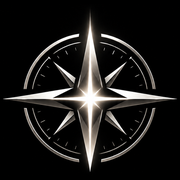
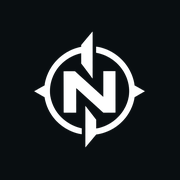
New N mark and wordmark in site fonts

Changed region(s): [[0.0, 0.0556, 1.0, 0.9444]]

diff --git a/index.html b/index.html
@@ -14,7 +14,7 @@
 <meta name="twitter:card" content="summary_large_image">
 <link rel="preconnect" href="https://fonts.googleapis.com">
 <link rel="preconnect" href="https://fonts.gstatic.com" crossorigin>
-<link rel="stylesheet" href="https://fonts.googleapis.com/css2?family=Geist:wght@300;400;500;600&family=Geist+Mono:wght@400;500&family=Bricolage+Grotesque:opsz,wdth,wght@12..96,75..100,500..800&family=Michroma&display=swap">
+<link rel="stylesheet" href="https://fonts.googleapis.com/css2?family=Geist:wght@300;400;500;600&family=Geist+Mono:wght@400;500&family=Bricolage+Grotesque:opsz,wdth,wght@12..96,75..100,500..800&display=swap">
 <style>
 :root{
   color-scheme: dark;
@@ -57,8 +57,8 @@ button{font:inherit;color:inherit}
 .brand:hover{opacity:.85}
 .brand:active{transform:scale(.96)}
 .brand img{width:34px;height:34px;display:block;flex:none;filter:drop-shadow(0 0 10px rgba(255,255,255,.12))}
-.wordmark{font-family:"Michroma","Geist",system-ui,sans-serif;font-weight:400;font-size:.74rem;line-height:1.1;letter-spacing:.2em;text-transform:uppercase;white-space:nowrap;text-align:left}
-.wordmark small{display:block;font-size:.62em;letter-spacing:.52em;color:var(--muted);margin-top:4px}
+.wordmark{font-family:var(--serif);font-weight:800;font-size:1.18rem;line-height:1;letter-spacing:-.035em;white-space:nowrap;text-align:left;font-variation-settings:"wdth" 92}
+.wordmark small{display:block;font-family:var(--mono);font-weight:500;font-size:.56rem;letter-spacing:.36em;text-transform:uppercase;color:var(--gold);margin-top:4px}
 .brand-mark{display:flex;gap:3px}
 .brand-mark i{width:7px;height:7px;border-radius:50%;background:var(--gold);display:block}
 .brand-mark i:nth-child(2){background:var(--ice)}
@@ -223,7 +223,7 @@ main{position:relative;z-index:1;padding-top:calc(60px + env(safe-area-inset-top
   .sample{max-width:480px}
 }
 @media (max-width:560px){
-  .wordmark{font-size:.62rem;letter-spacing:.16em}
+  .wordmark{font-size:1.06rem}
   .opts.two{grid-template-columns:1fr}
   .screen{padding-inline:16px;padding-block:28px 60px}
   .bar-inner{padding-inline:12px}

diff --git a/peptides/styles.css b/peptides/styles.css
@@ -27,8 +27,8 @@ a:hover{color:var(--text)}
 .nav .wrap{height:60px;display:flex;align-items:center;justify-content:space-between;gap:12px}
 .brand{display:flex;align-items:center;gap:10px;font-family:var(--serif);font-weight:800;font-size:1.25rem;letter-spacing:-.035em;color:var(--text);text-decoration:none}
 .brand img{width:34px;height:34px;display:block;flex:none;filter:drop-shadow(0 0 10px rgba(255,255,255,.12))}
-.wordmark{font-family:"Michroma","Geist",system-ui,sans-serif;font-weight:400;font-size:.74rem;line-height:1.1;letter-spacing:.2em;text-transform:uppercase;white-space:nowrap;text-align:left}
-.wordmark small{display:block;font-size:.62em;letter-spacing:.52em;color:var(--muted);margin-top:4px}
+.wordmark{font-family:var(--serif);font-weight:800;font-size:1.18rem;line-height:1;letter-spacing:-.035em;white-space:nowrap;text-align:left;font-variation-settings:"wdth" 92}
+.wordmark small{display:block;font-family:var(--mono);font-weight:500;font-size:.56rem;letter-spacing:.36em;text-transform:uppercase;color:var(--gold);margin-top:4px}
 .brand-mark{display:flex;gap:3px}
 .brand-mark i{width:7px;height:7px;border-radius:50%;background:var(--gold);display:block}
 .brand-mark i:nth-child(2){background:var(--ice)}
@@ -43,7 +43,7 @@ a:hover{color:var(--text)}
 .btn.lg{padding:15px 24px;font-size:1rem}
 .nav-links a{white-space:nowrap}
 .sm{display:none}
-@media (max-width:560px){.nav-links{gap:6px 14px}.wordmark{font-size:.58rem;letter-spacing:.14em}.brand{gap:8px}.brand img{width:28px;height:28px}.nav-links .hide-sm{display:none}.lg-only{display:none}.sm{display:inline}.nav .btn{padding:9px 14px}}
+@media (max-width:560px){.nav-links{gap:6px 14px}.wordmark{font-size:1.02rem}.brand{gap:8px}.brand img{width:28px;height:28px}.nav-links .hide-sm{display:none}.lg-only{display:none}.sm{display:inline}.nav .btn{padding:9px 14px}}
 
 /* Type */
 .eyebrow{font-family:var(--mono);font-size:.74rem;letter-spacing:.14em;text-transform:uppercase;color:var(--ice);margin:0 0 16px}

diff --git a/peptides/index.html b/peptides/index.html
@@ -16,7 +16,7 @@
 <meta name="twitter:title" content="Peptides Simplified: What Peptides Are and What the Research Shows">
 <meta name="twitter:description" content="Your compass for peptide research. What is a peptide, why is everyone talking about them, and what does the research actually show? Plain-English guides to BPC-157, semaglutide, tirzepatide, GHK-Cu and more.">
 <link rel="preconnect" href="https://fonts.googleapis.com"><link rel="preconnect" href="https://fonts.gstatic.com" crossorigin>
-<link rel="stylesheet" href="https://fonts.googleapis.com/css2?family=Geist:wght@300;400;500;600&family=Geist+Mono:wght@400;500&family=Bricolage+Grotesque:opsz,wdth,wght@12..96,75..100,500..800&family=Michroma&display=swap">
+<link rel="stylesheet" href="https://fonts.googleapis.com/css2?family=Geist:wght@300;400;500;600&family=Geist+Mono:wght@400;500&family=Bricolage+Grotesque:opsz,wdth,wght@12..96,75..100,500..800&display=swap">
 <link rel="icon" type="image/png" sizes="32x32" href="/assets/favicon-32.png">
 <link rel="apple-touch-icon" href="/assets/apple-touch-icon.png">
 <meta property="og:image" content="/assets/og-image.jpg">

diff --git a/calculator/index.html b/calculator/index.html
@@ -16,7 +16,7 @@
 <meta name="twitter:title" content="Peptide Mixing Calculator: How Much Water and How Many Units to Draw">
 <meta name="twitter:description" content="Your compass for peptide research: a free peptide reconstitution calculator. Enter your vial size and prescribed dose to see exactly how many units to draw, and the easiest amount of water to add.">
 <link rel="preconnect" href="https://fonts.googleapis.com"><link rel="preconnect" href="https://fonts.gstatic.com" crossorigin>
-<link rel="stylesheet" href="https://fonts.googleapis.com/css2?family=Geist:wght@300;400;500;600&family=Geist+Mono:wght@400;500&family=Bricolage+Grotesque:opsz,wdth,wght@12..96,75..100,500..800&family=Michroma&display=swap">
+<link rel="stylesheet" href="https://fonts.googleapis.com/css2?family=Geist:wght@300;400;500;600&family=Geist+Mono:wght@400;500&family=Bricolage+Grotesque:opsz,wdth,wght@12..96,75..100,500..800&display=swap">
 <link rel="icon" type="image/png" sizes="32x32" href="/assets/favicon-32.png">
 <link rel="apple-touch-icon" href="/assets/apple-touch-icon.png">
 <meta property="og:image" content="/assets/og-image.jpg">

diff --git a/peptides/tirzepatide/index.html b/peptides/tirzepatide/index.html
@@ -16,7 +16,7 @@
 <meta name="twitter:title" content="Tirzepatide: What It Is and What Studies Show, in Plain English">
 <meta name="twitter:description" content="Tirzepatide explained simply. A weight-loss medicine that copies two fullness hormones at once, GLP-1 and GIP. People sometimes call it a &quot;GLP-2&quot;, but that…">
 <link rel="preconnect" href="https://fonts.googleapis.com"><link rel="preconnect" href="https://fonts.gstatic.com" crossorigin>
-<link rel="stylesheet" href="https://fonts.googleapis.com/css2?family=Geist:wght@300;400;500;600&family=Geist+Mono:wght@400;500&family=Bricolage+Grotesque:opsz,wdth,wght@12..96,75..100,500..800&family=Michroma&display=swap">
+<link rel="stylesheet" href="https://fonts.googleapis.com/css2?family=Geist:wght@300;400;500;600&family=Geist+Mono:wght@400;500&family=Bricolage+Grotesque:opsz,wdth,wght@12..96,75..100,500..800&display=swap">
 <link rel="icon" type="image/png" sizes="32x32" href="/assets/favicon-32.png">
 <link rel="apple-touch-icon" href="/assets/apple-touch-icon.png">
 <meta property="og:image" content="/assets/og-image.jpg">

diff --git a/peptides/tesamorelin/index.html b/peptides/tesamorelin/index.html
@@ -16,7 +16,7 @@
 <meta name="twitter:title" content="Tesamorelin: What It Is and What Studies Show, in Plain English">
 <meta name="twitter:description" content="Tesamorelin explained simply. A prescription peptide that tells your body to make more of its own growth hormone. It is approved to shrink deep belly fat in…">
 <link rel="preconnect" href="https://fonts.googleapis.com"><link rel="preconnect" href="https://fonts.gstatic.com" crossorigin>
-<link rel="stylesheet" href="https://fonts.googleapis.com/css2?family=Geist:wght@300;400;500;600&family=Geist+Mono:wght@400;500&family=Bricolage+Grotesque:opsz,wdth,wght@12..96,75..100,500..800&family=Michroma&display=swap">
+<link rel="stylesheet" href="https://fonts.googleapis.com/css2?family=Geist:wght@300;400;500;600&family=Geist+Mono:wght@400;500&family=Bricolage+Grotesque:opsz,wdth,wght@12..96,75..100,500..800&display=swap">
 <link rel="icon" type="image/png" sizes="32x32" href="/assets/favicon-32.png">
 <link rel="apple-touch-icon" href="/assets/apple-touch-icon.png">
 <meta property="og:image" content="/assets/og-image.jpg">

diff --git a/peptides/semaglutide/index.html b/peptides/semaglutide/index.html
@@ -16,7 +16,7 @@
 <meta name="twitter:title" content="Semaglutide: What It Is and What Studies Show, in Plain English">
 <meta name="twitter:description" content="Semaglutide explained simply. A lab-made copy of a gut hormone called GLP-1 that tells your brain you are full. It is the active ingredient in Ozempic and…">
 <link rel="preconnect" href="https://fonts.googleapis.com"><link rel="preconnect" href="https://fonts.gstatic.com" crossorigin>
-<link rel="stylesheet" href="https://fonts.googleapis.com/css2?family=Geist:wght@300;400;500;600&family=Geist+Mono:wght@400;500&family=Bricolage+Grotesque:opsz,wdth,wght@12..96,75..100,500..800&family=Michroma&display=swap">
+<link rel="stylesheet" href="https://fonts.googleapis.com/css2?family=Geist:wght@300;400;500;600&family=Geist+Mono:wght@400;500&family=Bricolage+Grotesque:opsz,wdth,wght@12..96,75..100,500..800&display=swap">
 <link rel="icon" type="image/png" sizes="32x32" href="/assets/favicon-32.png">
 <link rel="apple-touch-icon" href="/assets/apple-touch-icon.png">
 <meta property="og:image" content="/assets/og-image.jpg">

diff --git a/peptides/retatrutide/index.html b/peptides/retatrutide/index.html
@@ -16,7 +16,7 @@
 <meta name="twitter:title" content="Retatrutide: What It Is and What Studies Show, in Plain English">
 <meta name="twitter:description" content="Retatrutide explained simply. An experimental weight-loss drug that copies three hormones at once. It has produced the largest weight loss seen so far in…">
 <link rel="preconnect" href="https://fonts.googleapis.com"><link rel="preconnect" href="https://fonts.gstatic.com" crossorigin>
-<link rel="stylesheet" href="https://fonts.googleapis.com/css2?family=Geist:wght@300;400;500;600&family=Geist+Mono:wght@400;500&family=Bricolage+Grotesque:opsz,wdth,wght@12..96,75..100,500..800&family=Michroma&display=swap">
+<link rel="stylesheet" href="https://fonts.googleapis.com/css2?family=Geist:wght@300;400;500;600&family=Geist+Mono:wght@400;500&family=Bricolage+Grotesque:opsz,wdth,wght@12..96,75..100,500..800&display=swap">
 <link rel="icon" type="image/png" sizes="32x32" href="/assets/favicon-32.png">
 <link rel="apple-touch-icon" href="/assets/apple-touch-icon.png">
 <meta property="og:image" content="/assets/og-image.jpg">

diff --git a/peptides/bpc-157/index.html b/peptides/bpc-157/index.html
@@ -16,7 +16,7 @@
 <meta name="twitter:title" content="BPC-157: What It Is and What Studies Show, in Plain English">
 <meta name="twitter:description" content="BPC-157 explained simply. The most talked-about &quot;healing peptide&quot;. It helped injuries heal faster in rats, but it has barely been tested in people.">
 <link rel="preconnect" href="https://fonts.googleapis.com"><link rel="preconnect" href="https://fonts.gstatic.com" crossorigin>
-<link rel="stylesheet" href="https://fonts.googleapis.com/css2?family=Geist:wght@300;400;500;600&family=Geist+Mono:wght@400;500&family=Bricolage+Grotesque:opsz,wdth,wght@12..96,75..100,500..800&family=Michroma&display=swap">
+<link rel="stylesheet" href="https://fonts.googleapis.com/css2?family=Geist:wght@300;400;500;600&family=Geist+Mono:wght@400;500&family=Bricolage+Grotesque:opsz,wdth,wght@12..96,75..100,500..800&display=swap">
 <link rel="icon" type="image/png" sizes="32x32" href="/assets/favicon-32.png">
 <link rel="apple-touch-icon" href="/assets/apple-touch-icon.png">
 <meta property="og:image" content="/assets/og-image.jpg">

diff --git a/peptides/sermorelin/index.html b/peptides/sermorelin/index.html
@@ -16,7 +16,7 @@
 <meta name="twitter:title" content="Sermorelin: What It Is and What Studies Show, in Plain English">
 <meta name="twitter:description" content="Sermorelin explained simply. The first 29 building blocks of the body’s own growth-hormone signal. It was once an FDA-approved drug for children.">
 <link rel="preconnect" href="https://fonts.googleapis.com"><link rel="preconnect" href="https://fonts.gstatic.com" crossorigin>
-<link rel="stylesheet" href="https://fonts.googleapis.com/css2?family=Geist:wght@300;400;500;600&family=Geist+Mono:wght@400;500&family=Bricolage+Grotesque:opsz,wdth,wght@12..96,75..100,500..800&family=Michroma&display=swap">
+<link rel="stylesheet" href="https://fonts.googleapis.com/css2?family=Geist:wght@300;400;500;600&family=Geist+Mono:wght@400;500&family=Bricolage+Grotesque:opsz,wdth,wght@12..96,75..100,500..800&display=swap">
 <link rel="icon" type="image/png" sizes="32x32" href="/assets/favicon-32.png">
 <link rel="apple-touch-icon" href="/assets/apple-touch-icon.png">
 <meta property="og:image" content="/assets/og-image.jpg">

diff --git a/peptides/collagen-peptides/index.html b/peptides/collagen-peptides/index.html
@@ -16,7 +16,7 @@
 <meta name="twitter:title" content="Collagen peptides: What It Is and What Studies Show, in Plain English">
 <meta name="twitter:description" content="Collagen peptides explained simply. The peptide most people already take. It is collagen broken into small pieces so it mixes into drinks.">
 <link rel="preconnect" href="https://fonts.googleapis.com"><link rel="preconnect" href="https://fonts.gstatic.com" crossorigin>
-<link rel="stylesheet" href="https://fonts.googleapis.com/css2?family=Geist:wght@300;400;500;600&family=Geist+Mono:wght@400;500&family=Bricolage+Grotesque:opsz,wdth,wght@12..96,75..100,500..800&family=Michroma&display=swap">
+<link rel="stylesheet" href="https://fonts.googleapis.com/css2?family=Geist:wght@300;400;500;600&family=Geist+Mono:wght@400;500&family=Bricolage+Grotesque:opsz,wdth,wght@12..96,75..100,500..800&display=swap">
 <link rel="icon" type="image/png" sizes="32x32" href="/assets/favicon-32.png">
 <link rel="apple-touch-icon" href="/assets/apple-touch-icon.png">
 <meta property="og:image" content="/assets/og-image.jpg">

diff --git a/peptides/ghk-cu/index.html b/peptides/ghk-cu/index.html
@@ -16,7 +16,7 @@
 <meta name="twitter:title" content="GHK-Cu: What It Is and What Studies Show, in Plain English">
 <meta name="twitter:description" content="GHK-Cu explained simply. A tiny copper-carrying peptide found in your blood. In skin creams, it has real human data for firmer, smoother skin.">
 <link rel="preconnect" href="https://fonts.googleapis.com"><link rel="preconnect" href="https://fonts.gstatic.com" crossorigin>
-<link rel="stylesheet" href="https://fonts.googleapis.com/css2?family=Geist:wght@300;400;500;600&family=Geist+Mono:wght@400;500&family=Bricolage+Grotesque:opsz,wdth,wght@12..96,75..100,500..800&family=Michroma&display=swap">
+<link rel="stylesheet" href="https://fonts.googleapis.com/css2?family=Geist:wght@300;400;500;600&family=Geist+Mono:wght@400;500&family=Bricolage+Grotesque:opsz,wdth,wght@12..96,75..100,500..800&display=swap">
 <link rel="icon" type="image/png" sizes="32x32" href="/assets/favicon-32.png">
 <link rel="apple-touch-icon" href="/assets/apple-touch-icon.png">
 <meta property="og:image" content="/assets/og-image.jpg">
